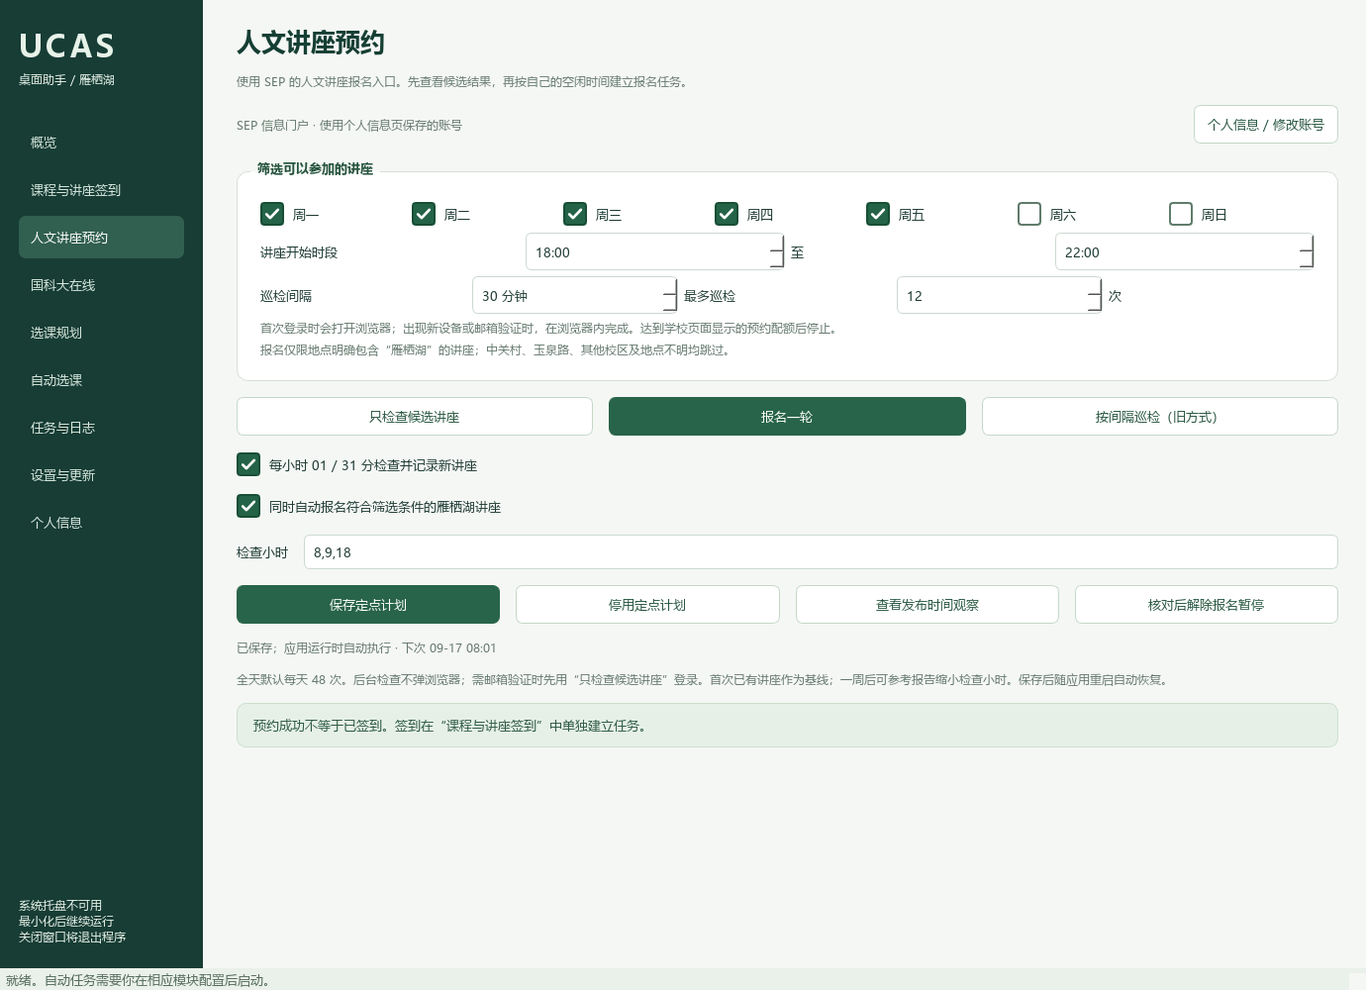
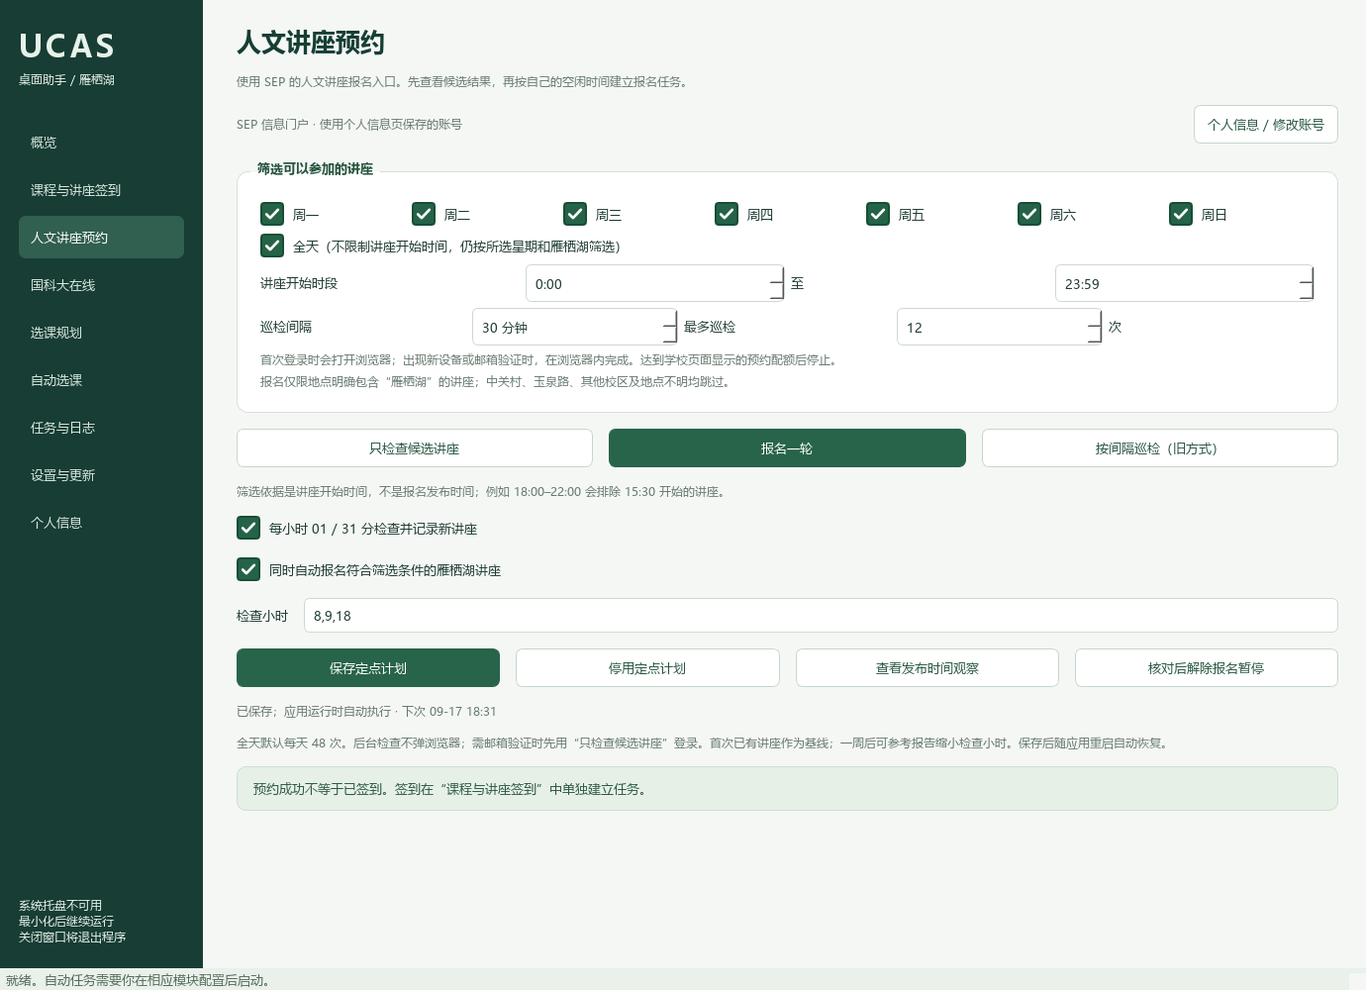
Persist per-course randomized pre-class schedules and stagger bounded retries

diff --git a/tests/test_automation.py b/tests/test_automation.py
@@ -55,6 +55,8 @@ class AutomationTests(unittest.TestCase):
             engine.tick(datetime(2026, 9, 16, 8, 0, 5))
             self.assertEqual(len(jobs.calls), 1)
             self.assertEqual(jobs.calls[0][-1]['date'], '20260916')
+            self.assertEqual(jobs.calls[0][-1]['timing'], 'random-before-20m')
+            self.assertNotIn('minutes_before', jobs.calls[0][-1], 'Old fixed-offset settings must not reach the worker')
             engine.tick(datetime(2026, 9, 17, 8))
             self.assertEqual(len(jobs.calls), 2)
             restarted = Automation(jobs, Vault(), directory=Path(tmp))
@@ -155,12 +157,71 @@ class AutomationTests(unittest.TestCase):
             with patch('adapters.iclass_worker.SignLedger', return_value=ledger), \
                  patch('adapters.iclass_worker.IClass') as client, \
                  patch('adapters.iclass_worker.datetime', Dates), patch('adapters.iclass_worker.time', clock), \
-                 patch('ucasdesk.sign_ledger.time.time', side_effect=clock.time):
+                 patch('ucasdesk.sign_ledger.time.time', side_effect=clock.time), \
+                 patch('ucasdesk.sign_ledger.secrets.randbelow', return_value=0):
                 client.return_value.query.return_value = [course]
                 client.return_value.sign.side_effect = sign
                 result = main({'mode': 'scheduled', 'courses': [course], 'minutes_before': 5, 'username': 'fixture', 'password': 'secret'})
             self.assertEqual(result, 0)
             self.assertEqual(calls, [datetime(2026, 9, 16, 8, 25), datetime(2026, 9, 16, 8, 30)])
+
+    def test_random_plan_window_restart_and_late_start(self):
+        start = datetime(2026, 9, 16, 8, 30).timestamp()
+        with tempfile.TemporaryDirectory() as tmp:
+            path = Path(tmp) / 'ledger.db'
+            ledger = SignLedger('one', path)
+            with patch('ucasdesk.sign_ledger.secrets.randbelow', return_value=0) as draw:
+                first = ledger.planned_time('1234567', start, start - 3600)
+                self.assertEqual(first, start - 1200)
+                self.assertEqual(SignLedger('one', path).planned_time('1234567', start, start - 600), first)
+                self.assertEqual(draw.call_count, 1, 'Restart must not redraw a due or future time')
+            with patch('ucasdesk.sign_ledger.secrets.randbelow', side_effect=lambda upper: upper-1):
+                self.assertEqual(SignLedger('two', path).planned_time('1234567', start, start-3600), start-1)
+                self.assertEqual(ledger.planned_time('1234568', start, start-30.5), start-1)
+            with patch('ucasdesk.sign_ledger.secrets.randbelow') as draw:
+                self.assertEqual(ledger.planned_time('1234569', start, start+30), start+30)
+                draw.assert_not_called()
+            with patch('ucasdesk.sign_ledger.secrets.randbelow', return_value=0):
+                self.assertEqual(ledger.planned_time('1234567', start+86400, start+80000), start+86400-1200)
+
+    def test_concurrent_workers_share_one_random_plan(self):
+        with tempfile.TemporaryDirectory() as tmp:
+            ledger = SignLedger('one', Path(tmp) / 'ledger.db')
+            with patch('ucasdesk.sign_ledger.secrets.randbelow', return_value=437) as draw:
+                with ThreadPoolExecutor(2) as pool:
+                    times = list(pool.map(lambda _: ledger.planned_time('1234567', 10000, 7000), range(2)))
+                self.assertEqual(times, [9237, 9237])
+                self.assertEqual(draw.call_count, 1)
+
+    def test_worker_waits_for_selected_second_and_jitters_retry(self):
+        class Clock:
+            seconds = datetime(2026, 9, 16, 8).timestamp()
+            def time(self): return self.seconds
+            def monotonic(self): return self.seconds
+            def sleep(self, seconds): self.seconds += seconds
+        clock = Clock()
+        class Dates:
+            @staticmethod
+            def now(): return datetime.fromtimestamp(clock.seconds)
+            fromtimestamp = datetime.fromtimestamp
+        course = {'id':'1234567', 'courseName':'fixture', 'signStatus':'0',
+                  'classBeginTime':'2026-09-16 08:30:00', 'classEndTime':'2026-09-16 09:30:00'}
+        calls = []
+        def sign(identifier):
+            calls.append(Dates.now())
+            return {'success':len(calls)>1, 'retryable':len(calls)==1}
+        with tempfile.TemporaryDirectory() as tmp:
+            ledger = SignLedger('fixture', Path(tmp)/'ledger.db')
+            with patch('adapters.iclass_worker.SignLedger',return_value=ledger), \
+                 patch('adapters.iclass_worker.IClass') as client, \
+                 patch('adapters.iclass_worker.datetime',Dates), patch('adapters.iclass_worker.time',clock), \
+                 patch('ucasdesk.sign_ledger.time.time',side_effect=clock.time), \
+                 patch('ucasdesk.sign_ledger.secrets.randbelow',side_effect=[443,17]):
+                client.return_value.query.return_value=[course]
+                client.return_value.sign.side_effect=sign
+                self.assertEqual(main({'mode':'scheduled','courses':[course], 'minutes_before':5,
+                    'username':'fixture','password':'secret'}),0)
+            self.assertEqual(calls,[datetime(2026,9,16,8,17,23),datetime(2026,9,16,8,30,17)])
 
 
 if __name__ == '__main__':

diff --git a/adapters/iclass_worker.py b/adapters/iclass_worker.py
@@ -1,6 +1,7 @@
 import json
 import sys
 import time
+import secrets
 from datetime import datetime
 from pathlib import Path
 
@@ -72,10 +73,21 @@ def main(payload):
         parse_time(course['classBeginTime'])
         parse_time(course['classEndTime'])
     pending = {c['id']: c for c in courses if str(c.get('signStatus')) != '1'}
+    random_timing = not payload.get('manual')
+    minutes_before = 20 if random_timing else payload.get('minutes_before', 0)
+    scheduled = {}
+    for key, course in pending.items():
+        start = parse_time(course['classBeginTime']).timestamp()
+        scheduled[key] = ledger.planned_time(key, start, time.time()) if random_timing else start - minutes_before * 60
+        print(json.dumps({'event': 'iclass.scheduled', 'id': key, 'title': course['courseName'],
+            'policy': 'random-before-20m' if random_timing else 'fixed',
+            'scheduledAt': datetime.fromtimestamp(scheduled[key]).isoformat(timespec='seconds'),
+            'catchUp': scheduled[key] < time.time()}, ensure_ascii=False), flush=True)
     attempts = {key: 0 for key in pending}
     next_attempt = {key: 0 for key in pending}
     failures = 0
-    print(f'已排队 {len(pending)} 节课；在开课前 {payload["minutes_before"]} 分钟开始，每节最多尝试 3 次。', flush=True)
+    timing = '开课前 20 分钟内随机安排（已保存，重启沿用）' if random_timing else f'开课前 {minutes_before} 分钟开始'
+    print(f'已排队 {len(pending)} 节课；{timing}，每节最多尝试 3 次。', flush=True)
     while pending:
         now = datetime.now()
         for key, course in list(pending.items()):
@@ -84,7 +96,7 @@ def main(payload):
                 del pending[key]
                 failures += 1
                 continue
-            if not eligible(course, now, payload['minutes_before']) or time.monotonic() < next_attempt[key]:
+            if now.timestamp() < scheduled[key] or not eligible(course, now, minutes_before) or time.monotonic() < next_attempt[key]:
                 continue
             try:
                 current = [course] if payload.get('manual') else client.query(now.strftime('%Y%m%d'))
@@ -95,7 +107,7 @@ def main(payload):
                     print(f'{course["courseName"]}：学校已记录签到，跳过。', flush=True)
                     del pending[key]
                     continue
-                if not eligible(updated, datetime.now(), payload['minutes_before']):
+                if (updated['classBeginTime'], updated['classEndTime']) != (course['classBeginTime'], course['classEndTime']) or not eligible(updated, datetime.now(), minutes_before):
                     raise RuntimeError('课表时间发生变化，请重新查询并建立任务。')
                 claim = ledger.claim(key)
                 if claim == 'wait':
@@ -114,6 +126,8 @@ def main(payload):
                     ledger.finish(key, 'unknown')
                     raise
                 retry_at = max(time.time() + 120, parse_time(updated['classBeginTime']).timestamp())
+                if random_timing and not result['success'] and result.get('retryable'):
+                    retry_at += secrets.randbelow(121)
                 ledger.finish(key, 'success' if result['success'] else 'retry' if result.get('retryable') else 'unknown', retry_at)
                 print(course['courseName'] + '：' + json.dumps(result, ensure_ascii=False), flush=True)
                 if result['success']:
@@ -140,7 +154,10 @@ def main(payload):
                 next_attempt[key] = time.monotonic() + max(120, retry_at - time.time())
                 print('下次允许尝试：' + datetime.fromtimestamp(retry_at).strftime('%Y-%m-%d %H:%M:%S'), flush=True)
         if pending:
-            time.sleep(10)
+            # Wake for the actual selected second, rather than rounding every class
+            # to a shared ten-second polling boundary.
+            waits = [max(scheduled[key] - time.time(), next_attempt[key] - time.monotonic(), .1) for key in pending]
+            time.sleep(min(10, min(waits)))
     return 1 if failures else 0
 
 

diff --git a/ucasdesk/ui.py b/ucasdesk/ui.py
@@ -134,7 +134,7 @@ class Window(DashboardMixin, QMainWindow):
         self.nav.setObjectName('navigation')
         self.nav.addItems(['概览', '课程与讲座签到', '人文讲座预约', '国科大在线', '选课规划', '自动选课', '任务与日志', '设置与更新', '个人信息'])
         side.addWidget(self.nav)
-        self.runtime_hint = label('本地运行 · v0.3.2\n关闭窗口后托盘运行\n右键托盘可退出程序', 'sideText')
+        self.runtime_hint = label('本地运行 · v0.3.3\n关闭窗口后托盘运行\n右键托盘可退出程序', 'sideText')
         side.addWidget(self.runtime_hint)
         horizontal.addWidget(sidebar)
         self.pages = QStackedWidget()
@@ -391,12 +391,7 @@ class Window(DashboardMixin, QMainWindow):
         self.course_date = QDateEdit(QDate.currentDate())
         self.course_date.setCalendarPopup(True)
         self.course_date.setDisplayFormat('yyyy-MM-dd')
-        self.before = QSpinBox()
-        self.before.setRange(0, 30)
-        self.before.setValue(5)
-        self.before.setSuffix(' 分钟')
         daily = self.automation.config.get('course', {})
-        self.before.setValue(daily.get('minutes_before', 5))
         self.daily_enabled = QCheckBox('每天 08:00 自动查课表并安排签到')
         self.daily_enabled.setChecked(daily.get('enabled', False))
         layout.addLayout(row(self.daily_enabled, button('保存每日计划', self.save_daily_plan),
@@ -404,7 +399,8 @@ class Window(DashboardMixin, QMainWindow):
         self.daily_status = label('', 'muted')
         layout.addWidget(self.daily_status)
         layout.addWidget(label('个人信息页的账号自动保存，计划可随应用重启恢复；08:00 后启动会补查今天。', 'muted'))
-        layout.addLayout(row(label('日期'), self.course_date, button('查询课表', self.query_courses, True), label('开课前'), self.before,
+        layout.addWidget(label('课程签到：每节课在开课前 20 分钟内随机选定一次执行时间，重启沿用；具体时间见任务日志。', 'banner'))
+        layout.addLayout(row(label('日期'), self.course_date, button('查询课表', self.query_courses, True),
                              button('为勾选课程建立自动签到任务', self.schedule_courses)))
         self.course_table = table(['选择', '课程 / 讲座', '教师', '开始', '结束', '签到状态', '排课 ID'])
         layout.addWidget(self.course_table, 1)
@@ -446,7 +442,7 @@ class Window(DashboardMixin, QMainWindow):
                 self.disable_plan('course')
                 return
             self.account('iclass')
-            self.automation.save('course', {'enabled': True, 'minutes_before': self.before.value()})
+            self.automation.save('course', {'enabled': True, 'timing': 'random-before-20m'})
             self.automation.tick()
         except Exception as exc:
             self.error(str(exc))
@@ -569,7 +565,7 @@ class Window(DashboardMixin, QMainWindow):
             courses = [course for index, course in enumerate(self.courses) if self.course_table.item(index, 0).checkState() == Qt.Checked]
             if not courses:
                 raise ValueError('请先查询课表并勾选需要签到的课程。')
-            payload = self.account('iclass') | {'mode': 'scheduled', 'courses': courses, 'minutes_before': self.before.value()}
+            payload = self.account('iclass') | {'mode': 'scheduled', 'courses': courses, 'timing': 'random-before-20m'}
             self.start_job('iclass', f'课程自动签到 · {len(courses)} 节', PYTHON, [ROOT / 'adapters/iclass_worker.py'], payload)
         except Exception as exc:
             self.error(str(exc))

diff --git a/ucasdesk/sign_ledger.py b/ucasdesk/sign_ledger.py
@@ -2,6 +2,8 @@
 import hashlib
 import sqlite3
 import time
+import math
+import secrets
 from .core import DATA
 
 
@@ -11,9 +13,25 @@ class SignLedger:
         self.path = path or DATA / 'sign-ledger.sqlite3'
         with self.connect() as db:
             db.execute('CREATE TABLE IF NOT EXISTS signs(account TEXT, id TEXT, status TEXT, attempts INTEGER, retry_at REAL, PRIMARY KEY(account,id))')
+            db.execute('CREATE TABLE IF NOT EXISTS schedules(account TEXT, id TEXT, start REAL, run_at REAL, PRIMARY KEY(account,id,start))')
 
     def connect(self):
         return sqlite3.connect(self.path, timeout=10)
+
+    def planned_time(self, identifier, start, now=None):
+        """One durable random time per account and class occurrence, shared by workers."""
+        now = time.time() if now is None else now
+        with self.connect() as db:
+            db.execute('BEGIN IMMEDIATE')
+            old = db.execute('SELECT run_at FROM schedules WHERE account=? AND id=? AND start=?',
+                             (self.account, identifier, start)).fetchone()
+            if old:
+                return old[0]
+            earliest = max(start - 20 * 60, math.ceil(now))
+            # Late startup keeps the existing catch-up behavior; do not invent a past time.
+            run_at = earliest + secrets.randbelow(int(start - earliest)) if earliest < start else now
+            db.execute('INSERT INTO schedules VALUES(?,?,?,?)', (self.account, identifier, start, run_at))
+            return run_at
 
     def claim(self, identifier, now=None):
         now = time.time() if now is None else now

diff --git a/ucasdesk/dashboard.py b/ucasdesk/dashboard.py
@@ -112,7 +112,7 @@ class DashboardMixin:
         signing = bool(modules & {'iclass', 'iclass-daily', 'iclass-manual', 'lecture-sign'})
         self.home_cards[1].set_content('签到任务执行中' if signing else '当前没有签到任务',
             ['每日计划   08:00 自动查课并安排签到', '计划状态   ' + ('已启用' if self.automation.enabled('course') else '未启用')],
-            '运行中的任务可能正在等待课程开始。', '运行中' if signing else '空闲')
+            '每节课在开课前 20 分钟内随机执行，具体时间见日志。', '运行中' if signing else '空闲')
         config = self.automation.config.get('lecture', {})
         mode = '自动报名' if config.get('book') else '仅观察，不报名'
         for page, kind in ((2, 'humanity'), (9, 'science')):

diff --git a/ucasdesk/automation.py b/ucasdesk/automation.py
@@ -88,7 +88,7 @@ class Automation(QObject):
             self.jobs.start('iclass-daily', f'每日 08:00 课程计划 · {today}', PYTHON,
                             [ROOT / 'adapters/iclass_worker.py'], account | {
                                 'mode': 'daily', 'date': now.strftime('%Y%m%d'),
-                                'minutes_before': config.get('minutes_before', 5)})
+                                'timing': 'random-before-20m'})
             self.daily_started = today
             self.messages[kind] = f'{today} 已启动课表检查与定时签到；结果见任务日志'
         else:

diff --git a/scripts/build_portable.py b/scripts/build_portable.py
@@ -71,7 +71,7 @@ def trim_qt(output):
 
 def main():
     parser = argparse.ArgumentParser(description=__doc__)
-    parser.add_argument('--version', default='0.3.2')
+    parser.add_argument('--version', default='0.3.3')
     parser.add_argument('--no-zip', action='store_true')
     parser.add_argument('--resume', action='store_true', help='Resume this version only before it has ever been run')
     args = parser.parse_args()

diff --git a/ucasdesk/__init__.py b/ucasdesk/__init__.py
@@ -1,1 +1,1 @@
-__version__ = '0.3.2'
+__version__ = '0.3.3'

diff --git a/README.md b/README.md
@@ -20,6 +20,10 @@
 
 ![应用首页](docs/desktop-dashboard.png)
 
+## v0.3.3：课程签到随机时间
+
+每日计划和勾选课程任务，均为每节课在开课前 20 分钟内随机选定一次执行时间，精确到秒并保存；重启沿用同一时间，旧“提前 5 分钟”设置不再生效。日志中的 `iclass.scheduled` 显示各节计划时间。已开课或重启时错过计划时间，仍按原规则补查；已结束课程不提交。升级需退出旧进程并重新打开，正在运行的旧任务不会自动切换。
+
 ## v0.3.2：主页课表分类配色
 
 主页周课表与选课规划共用课程类别颜色、连续节次课程块及红色冲突提示；今日课程按类别着色，签到状态单独显示。详见 [课表配色示例](docs/仪表盘与邮件提醒.md)。
@@ -141,24 +145,24 @@ EXE 是小型启动器，**不是独立免安装包**。必须保留整个工程
 #### 每日 08:00 自动安排（推荐）
 
 1. 在“个人信息”填写轻新课堂账号密码，编辑完成后自动加密保存。
-2. 勾选“每天 08:00 自动查课表并安排签到”，设置“开课前”分钟数，点击 **保存每日计划**。
-3. 以后每天按电脑本地时间 08:00 查询当天课表，将所有未结束、未签到的排课加入定时任务，不再需要每天手工勾选。请将 Windows 时区设为北京时间。
+2. 勾选“每天 08:00 自动查课表并安排签到”，点击 **保存每日计划**。
+3. 以后每天按电脑本地时间 08:00 查询当天课表，将所有未结束、未签到的排课加入定时任务；每节首次执行时间在开课前 20 分钟内随机选定并保存，不再需要每天手工勾选。请将 Windows 时区设为北京时间。
 4. 08:00 后启动或从休眠恢复会补查今天；不追补已经结束的课程。当天无课则正常结束。只读课表查询失败最多尝试 3 次，间隔 5 分钟；之后等待次日或重启应用重查。
 5. 重启应用会重新核对当天课表。本机 SQLite 提交记录按账号和排课 ID 去重；提交前先占用记录，网络结果不明或提交途中退出后不盲目重放，需自行核对学校记录。
 6. “停用每日计划”或停止该自动任务会停用后续每日计划；“停止全部任务”也停用所有后台计划。单纯退出应用会保留启用设置，下次打开继续。
 
-后台课表查询结果会显示在任务日志，并更新界面中当天的课程列表。应用退出、关机和休眠期间不执行，不会唤醒电脑。普通课程任务与每日任务共享提交去重记录。
+后台课表查询结果会显示在任务日志，并更新界面中当天的课程列表。应用退出、关机和休眠期间不执行，不会唤醒电脑。普通课程任务与每日任务共享提交去重记录和随机执行时间。比如 10:00 的课程，首次计划可能为 09:43:27；重启不会重新抽取。若在临近开课时首次建任务，仅在剩余课前时段内选择；已经开课则立即补查。是否允许提前签到由学校决定，尚未开放时按上述有限重试处理，不会伪造成功。手工填写讲座 ID 的定时入口仍按讲座开始时间执行。
 
 #### 手动选择课程
 
 1. 在“个人信息”保存本人轻新课堂学号与密码，再打开“课程与讲座签到”。
 2. 选择日期，点击“查询课表”，确认课程、日期与时间正确。
-3. 勾选要处理的具体课程，设置提前时间（默认开课前 5 分钟）。
+3. 勾选要处理的具体课程。每节在开课前 20 分钟内随机选定执行时间，与每日任务共用同一计划。
 4. 点击“为勾选课程建立自动签到任务”。
 5. 到达时间后，会校准学校时间并再次查询状态，跳过已签到项。
 6. 在“任务与日志”查看返回结果，并到学校系统核对。
 
-仅当 `STATUS=0` 且 `stuSignStatus=1` 才记为成功。每节最多 3 次尝试，仅对明确的时间/过期拒绝至少间隔 2 分钟重试（若尚未开课，下一次不早于开课时间）；网络错误和未知结果停止处理。不同任务不会重复加入同一排课。
+仅当 `STATUS=0` 且 `stuSignStatus=1` 才记为成功。每节最多 3 次尝试，仅对明确的时间/过期拒绝至少间隔 2 分钟重试（若尚未开课，下一次不早于开课时间）；课程重试在该最早时点后再增加 0–120 秒随机等待；网络错误和未知结果停止处理。不同任务不会重复加入同一排课。
 
 ### 2. 科研/人文讲座签到
 

diff --git a/docs/便携版说明.md b/docs/便携版说明.md
@@ -2,7 +2,7 @@
 
 ## 普通用户：解压后直接运行
 
-1. 下载 `UCAS-Desktop-0.3.2-Windows-x64.zip`，右键“全部解压”到自己有写入权限的文件夹，如桌面或 D 盘。
+1. 下载 `UCAS-Desktop-0.3.3-Windows-x64.zip`，右键“全部解压”到自己有写入权限的文件夹，如桌面或 D 盘。
 2. 打开解压后的文件夹，双击 **UCAS桌面助手.exe**。不要在压缩软件内直接运行，也不要只复制 EXE；它需要同目录的资源和运行环境。
 3. 到“个人信息”填写自己的 SEP 和轻新课堂账号，保存后即可使用。
 4. 需要人文讲座预约或自动选课时，进入“设置与更新”，点击 **一键启用讲座预约与抢课**。等待“任务与日志”显示完成，再返回对应功能；首次需要能访问 GitHub。这个过程只准备组件，不会登录学校或提交任务。
@@ -36,7 +36,7 @@
 在源码仓库的 Windows 构建机安装 Python 和 `requests` 后运行：
 
 ```powershell
-python scripts/build_portable.py --version 0.3.2
+python scripts/build_portable.py --version 0.3.3
 ```
 
 构建脚本从固定来源下载并校验独立运行时，安装所需 Python 包，从固定提交读取上游公开源码，生成启动器与 ZIP / SHA256。缓存位于 `data/portable-cache/`，输出位于 `dist/`；已有输出目录不会被覆盖。用户不需要执行这个步骤。

diff --git a/使用指南.md b/使用指南.md
@@ -11,7 +11,7 @@
 
 ## 每天自动查课表、定点检查讲座
 
-课程页勾选“每天 08:00 自动查课表并安排签到”，在个人信息保存账号后保存每日计划。讲座页勾选“每小时 01 / 31 分检查并记录新讲座”，按需同时勾选自动报名，并保存定点计划。报名只接受地点明确的雁栖湖场次；其他校区与地点不明均跳过。点击“查看发布时间观察”查看一周内首次发现的时点分布，之后可缩小检查小时。
+课程页勾选“每天 08:00 自动查课表并安排签到”，在个人信息保存账号后保存每日计划。每节课会在开课前 20 分钟内随机选定执行时间并保存，重启沿用，具体时刻见任务日志；旧的提前 5 分钟设置不再生效。讲座页勾选“每小时 01 / 31 分检查并记录新讲座”，按需同时勾选自动报名，并保存定点计划。报名只接受地点明确的雁栖湖场次；其他校区与地点不明均跳过。点击“查看发布时间观察”查看一周内首次发现的时点分布，之后可缩小检查小时。
 
 详细步骤、重启恢复、停止与观察误差见 [README](README.md)。关闭窗口进托盘继续执行；完全退出或休眠期间不执行。升级后需要从托盘退出旧进程并重新打开应用一次。
 

diff --git a/docs/仪表盘与邮件提醒.md b/docs/仪表盘与邮件提醒.md
@@ -1,4 +1,4 @@
-# 仪表盘、状态颜色与邮件提醒（v0.3.2）
+# 仪表盘、状态颜色与邮件提醒（v0.3.3）
 
 ## 概览怎样使用
 
